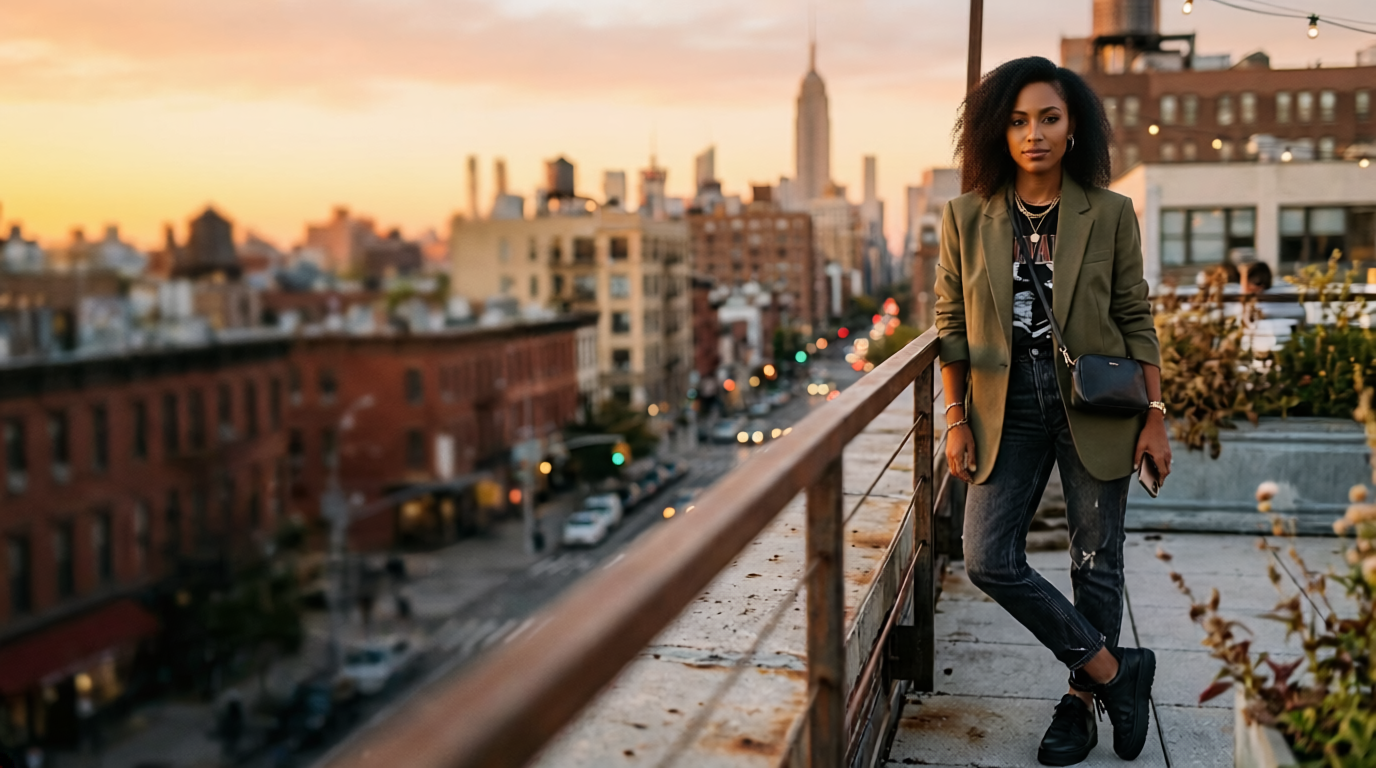
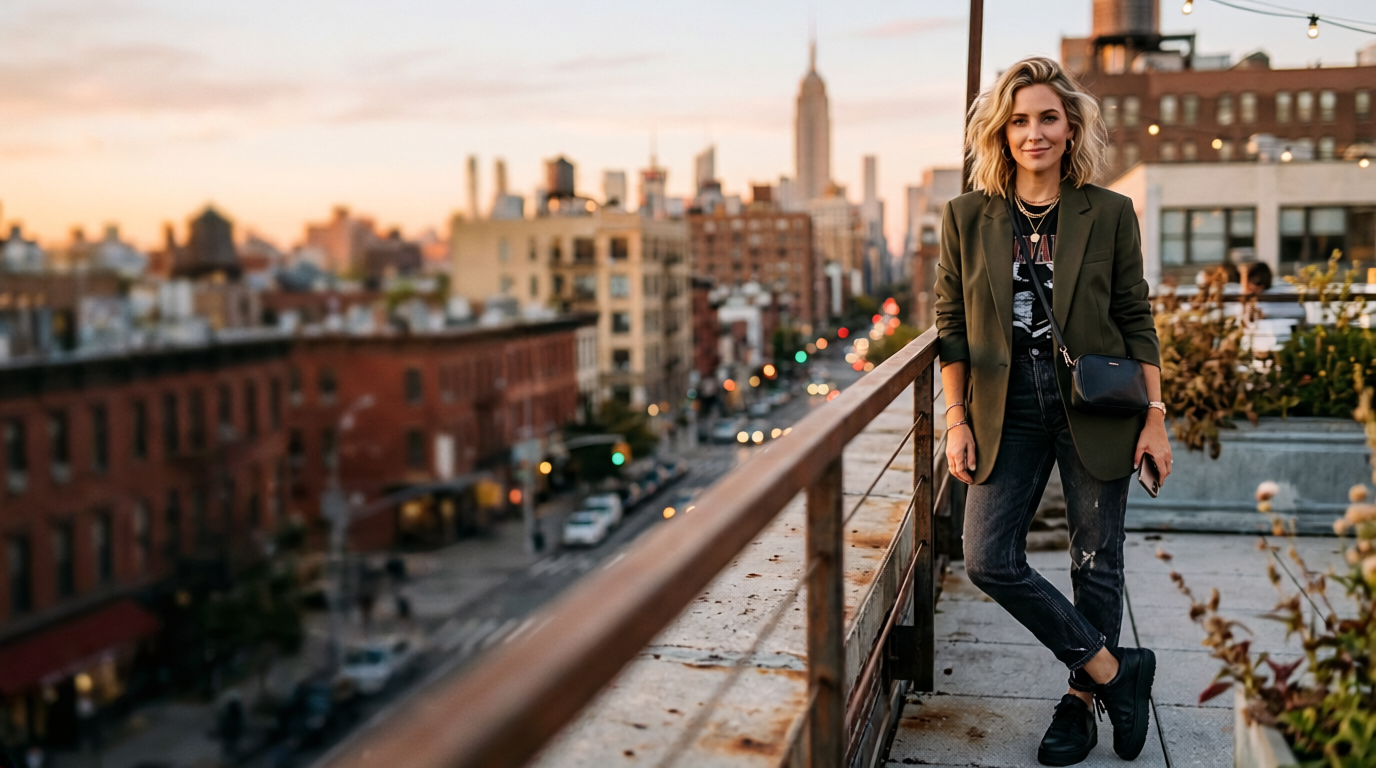
V2.3: Remove 'Get Started', fix CTA to 'in culture?', restore original hero image

Changed region(s): [[0.0, 0.0, 0.875, 0.625], [0.8438, 0.0, 1.0, 0.0938], [0.7812, 0.8438, 0.8125, 0.9062]]

diff --git a/src/app/page.tsx b/src/app/page.tsx
@@ -578,11 +578,8 @@ export default function Home() {
         id="contact"
       >
         <div className="relative z-10 max-w-[700px] mx-auto">
-          <span className="text-[11px] font-bold uppercase tracking-[0.3em] text-plum mb-6 block fade-up">
-            Get Started
-          </span>
           <h2 className="font-display text-[clamp(2.2rem,6vw,4.5rem)] leading-[0.95] tracking-tight mb-6 fade-up">
-            <span className="md:whitespace-nowrap">Ready to show up</span><br className="hidden md:block" /> <span className="md:whitespace-nowrap">culture?</span>
+            <span className="md:whitespace-nowrap">Ready to show up</span><br className="hidden md:block" /> <span className="md:whitespace-nowrap">in culture?</span>
           </h2>
           <div className="mb-12" />
           <a